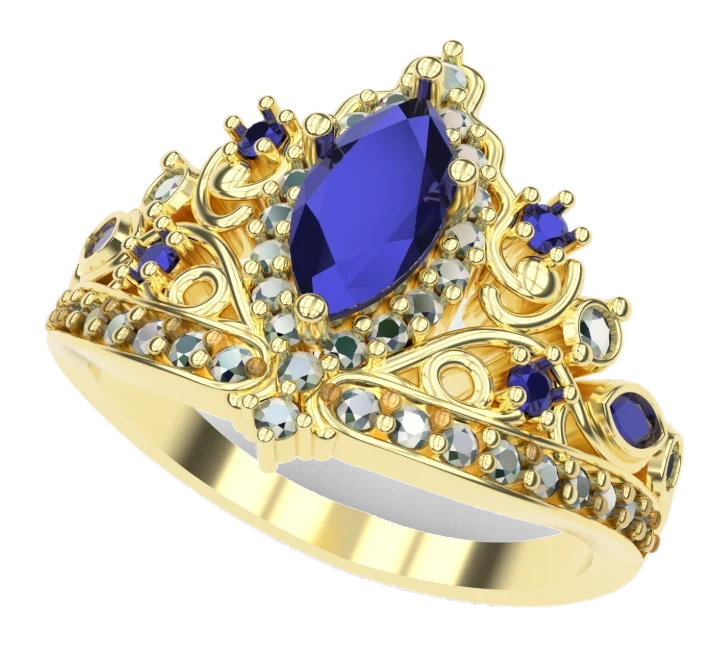
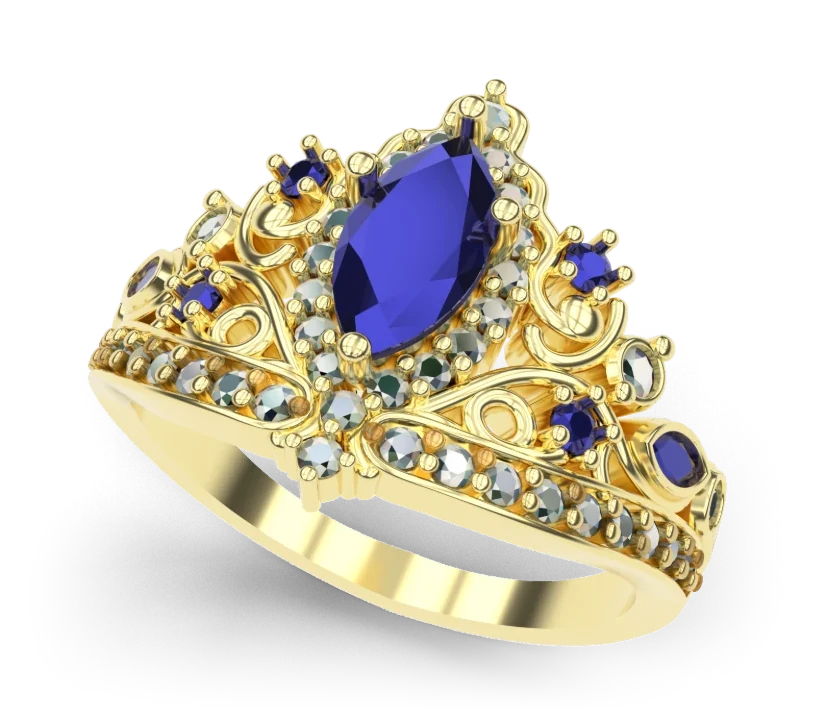
Galería: usar los renders originales con su sombra en vez del recorte; quitar velo gris de fondo
Claude-Session: https://claude.ai/code/session_015jQgXxtUnQt7CDozEfjhVp

diff --git a/js/data.js b/js/data.js
@@ -165,11 +165,11 @@ window.GALLERY = (() => {
   // Piezas de Maria Paulina. Para agregar una: poner la imagen (ideal sin fondo, .webp) en
   // assets/img/gallery/ y copiar una línea.
   const real = [
-    { img: "assets/img/gallery/anillo-ancla.webp", cat: "anillos", title: { es: "Anillo ancla", en: "Anchor ring" } },
-    { img: "assets/img/gallery/anillo-corona.webp", cat: "anillos", title: { es: "Anillo corona con zafiros", en: "Sapphire crown ring" } },
-    { img: "assets/img/gallery/anillo-luna-ballena.webp", cat: "organico", title: { es: "Anillo luna y ballena", en: "Moon & whale ring" } },
-    { img: "assets/img/gallery/anillo-cupula-zafiros.webp", cat: "anillos", title: { es: "Anillo cúpula de zafiros", en: "Sapphire dome ring" } },
-    { img: "assets/img/gallery/dije-sagitario.webp", cat: "religiosa", title: { es: "Dije Sagitario", en: "Sagittarius pendant" } },
+    { img: "assets/img/gallery/anillo-ancla.webp?v=20261108022318", cat: "anillos", title: { es: "Anillo ancla", en: "Anchor ring" } },
+    { img: "assets/img/gallery/anillo-corona.webp?v=20261108022318", cat: "anillos", title: { es: "Anillo corona con zafiros", en: "Sapphire crown ring" } },
+    { img: "assets/img/gallery/anillo-luna-ballena.webp?v=20261108022318", cat: "organico", title: { es: "Anillo luna y ballena", en: "Moon & whale ring" } },
+    { img: "assets/img/gallery/anillo-cupula-zafiros.webp?v=20261108022318", cat: "anillos", title: { es: "Anillo cúpula de zafiros", en: "Sapphire dome ring" } },
+    { img: "assets/img/gallery/dije-sagitario.webp?v=20261108022318", cat: "religiosa", title: { es: "Dije Sagitario", en: "Sagittarius pendant" } },
   ];
 
   return real;

diff --git a/project.html b/project.html
@@ -9,15 +9,15 @@
   <link rel="preload" href="fonts/instrument-serif-latin-400-normal.woff2" as="font" type="font/woff2" crossorigin>
   <link rel="preload" href="fonts/inter-latin-wght-normal.woff2" as="font" type="font/woff2" crossorigin>
   <script>try{var t=localStorage.getItem("mp-theme");if(t)document.documentElement.dataset.theme=t}catch(e){}</script>
-  <link rel="stylesheet" href="css/style.css?v=20261108021137">
+  <link rel="stylesheet" href="css/style.css?v=20261108022318">
   <script type="module" src="js/vendor/model-viewer.min.js"></script>
 </head>
 <body data-page="project" id="top">
   <header class="nav" id="site-nav"></header>
   <main id="project"></main>
   <footer id="site-footer"></footer>
-  <script src="js/i18n.js?v=20261108021137"></script>
-  <script src="js/data.js?v=20261108021137"></script>
-  <script src="js/app.js?v=20261108021137"></script>
+  <script src="js/i18n.js?v=20261108022318"></script>
+  <script src="js/data.js?v=20261108022318"></script>
+  <script src="js/app.js?v=20261108022318"></script>
 </body>
 </html>

diff --git a/index.html b/index.html
@@ -14,7 +14,7 @@
   <link rel="preload" href="fonts/instrument-serif-latin-400-normal.woff2" as="font" type="font/woff2" crossorigin>
   <link rel="preload" href="fonts/inter-latin-wght-normal.woff2" as="font" type="font/woff2" crossorigin>
   <script>try{var t=localStorage.getItem("mp-theme");if(t)document.documentElement.dataset.theme=t}catch(e){}</script>
-  <link rel="stylesheet" href="css/style.css?v=20261108021137">
+  <link rel="stylesheet" href="css/style.css?v=20261108022318">
   <script type="module" src="js/vendor/model-viewer.min.js"></script>
 </head>
 <body data-page="home" id="top">
@@ -123,8 +123,8 @@
     </div>
   </div>
 
-  <script src="js/i18n.js?v=20261108021137"></script>
-  <script src="js/data.js?v=20261108021137"></script>
-  <script src="js/app.js?v=20261108021137"></script>
+  <script src="js/i18n.js?v=20261108022318"></script>
+  <script src="js/data.js?v=20261108022318"></script>
+  <script src="js/app.js?v=20261108022318"></script>
 </body>
 </html>

diff --git a/cv.html b/cv.html
@@ -58,8 +58,8 @@
 <body>
   <div class="bar"><a href="index.html" id="back"></a><a href="#" id="toggle"></a><a class="primary" id="dl" href="#"></a></div>
   <div class="sheet" id="sheet"></div>
-  <script src="js/data.js?v=20261108021137"></script>
-  <script src="js/cv-data.js?v=20261108021137"></script>
+  <script src="js/data.js?v=20261108022318"></script>
+  <script src="js/cv-data.js?v=20261108022318"></script>
   <script>
     const qs = new URLSearchParams(location.search);
     const lang = qs.get("lang") === "en" ? "en" : "es";
